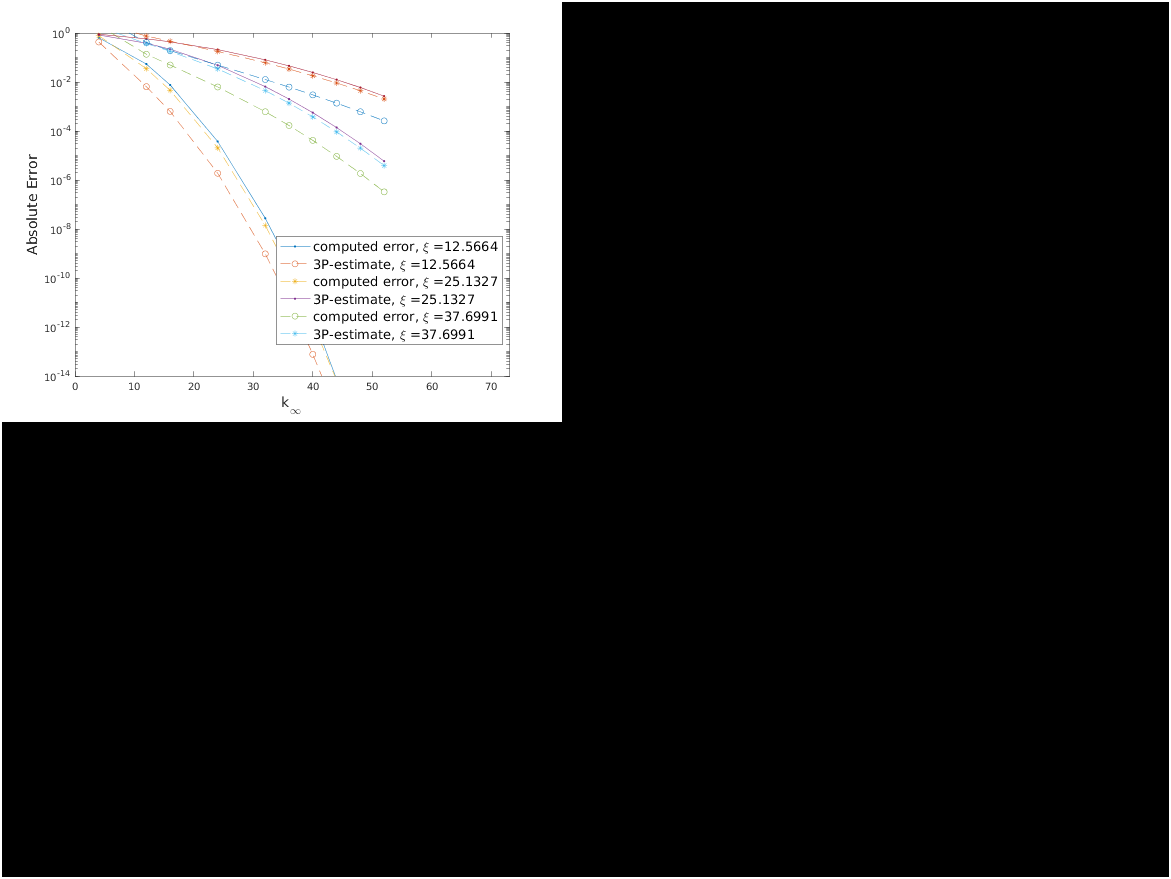
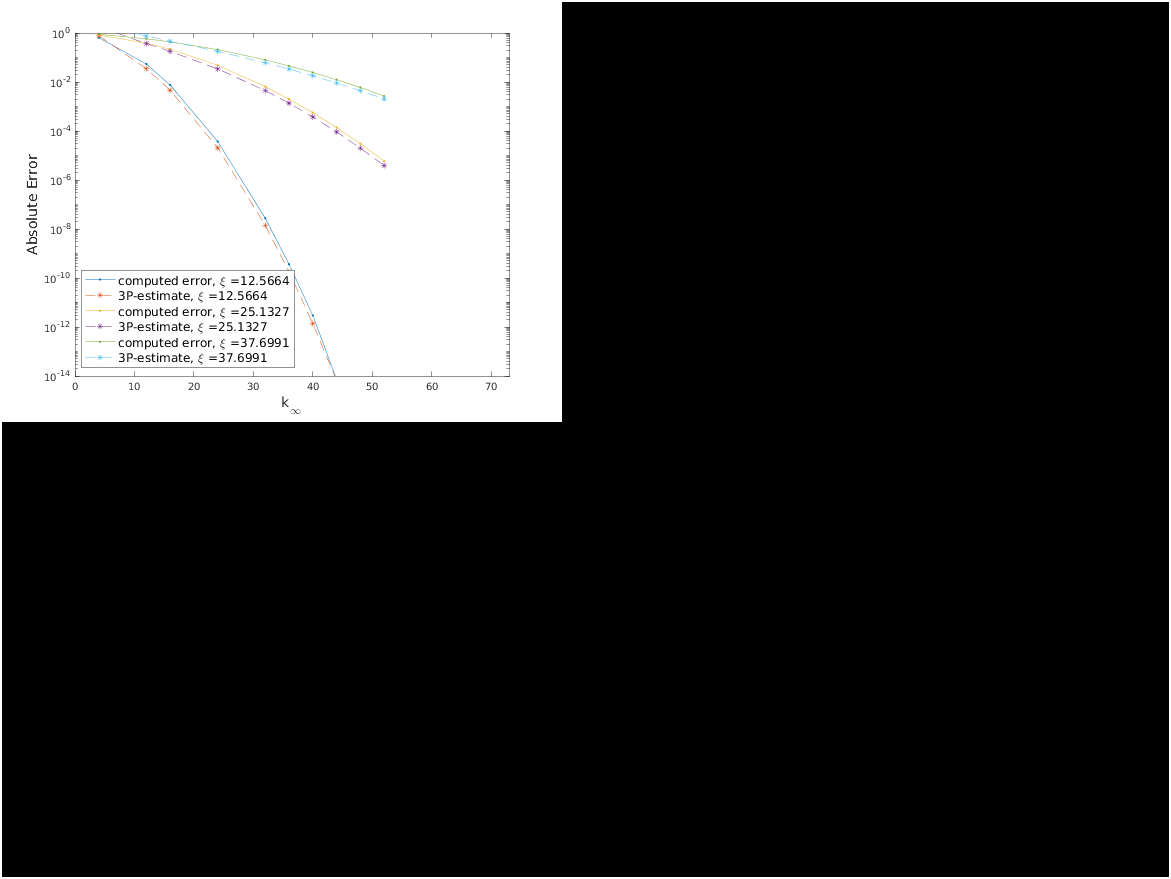
img

Changed region(s): [[0.0615, 0.2765, 0.4304, 0.43], [0.1537, 0.0614, 0.3074, 0.1229], [0.0922, 0.0307, 0.1537, 0.0614]]

diff --git a/SE_Stokes_run/SE3P_Stokes/param_select.m b/SE_Stokes_run/SE3P_Stokes/param_select.m
@@ -105,7 +105,7 @@ for xi = xx
     end
     semilogy(MM./2,err,'.-')
     hold on
-    semilogy(MM./2,ee,'--o')
+    %semilogy(MM./2,ee,'--o')
     semilogy(MM./2,eee,'--*')
     str = [str,strcat('computed error, \xi =', num2str(xi))];
     %str = [str, strcat('2D-estimate, \xi =', num2str(xi))];
@@ -115,7 +115,7 @@ for xi = xx
 end
 ylim([10^-14,1])
 xlim([0,73])
-legend(str{:},'Location','Best','FontSize',13)
+legend(str{:},'Location','Best','FontSize',12)
 ylabel('Absolute Error','FontSize',14)
 xlabel('k_{\infty}','FontSize',14)
 %ylabel('\epsilon','FontSize',14)
